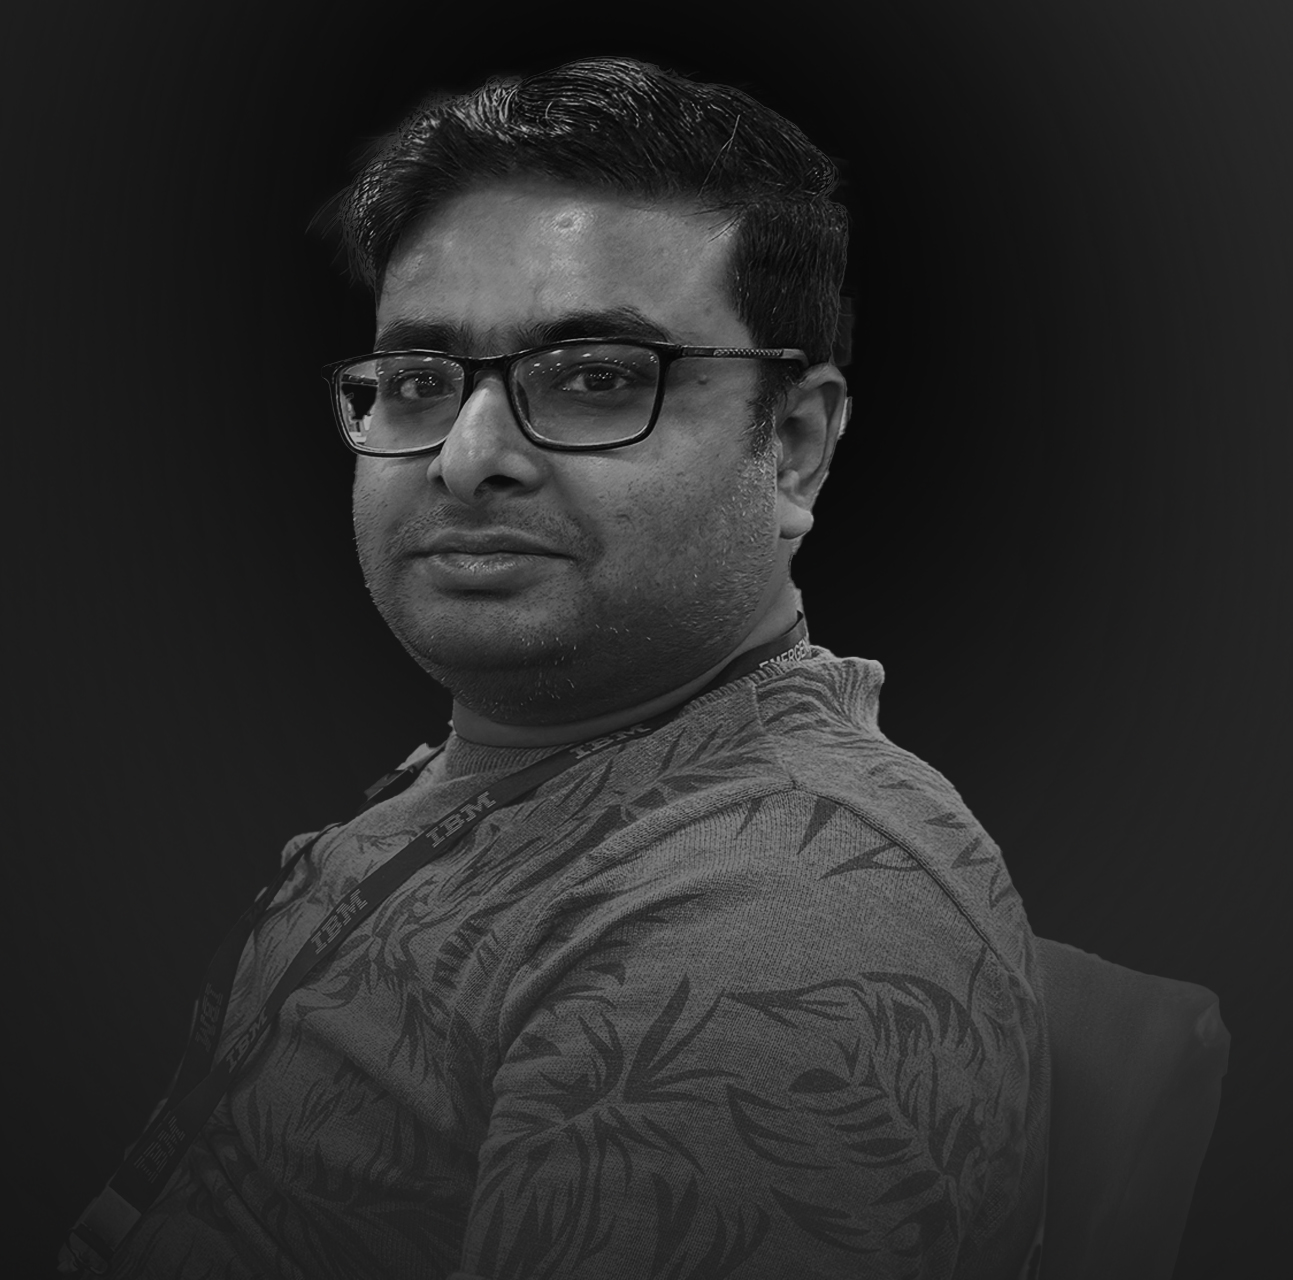
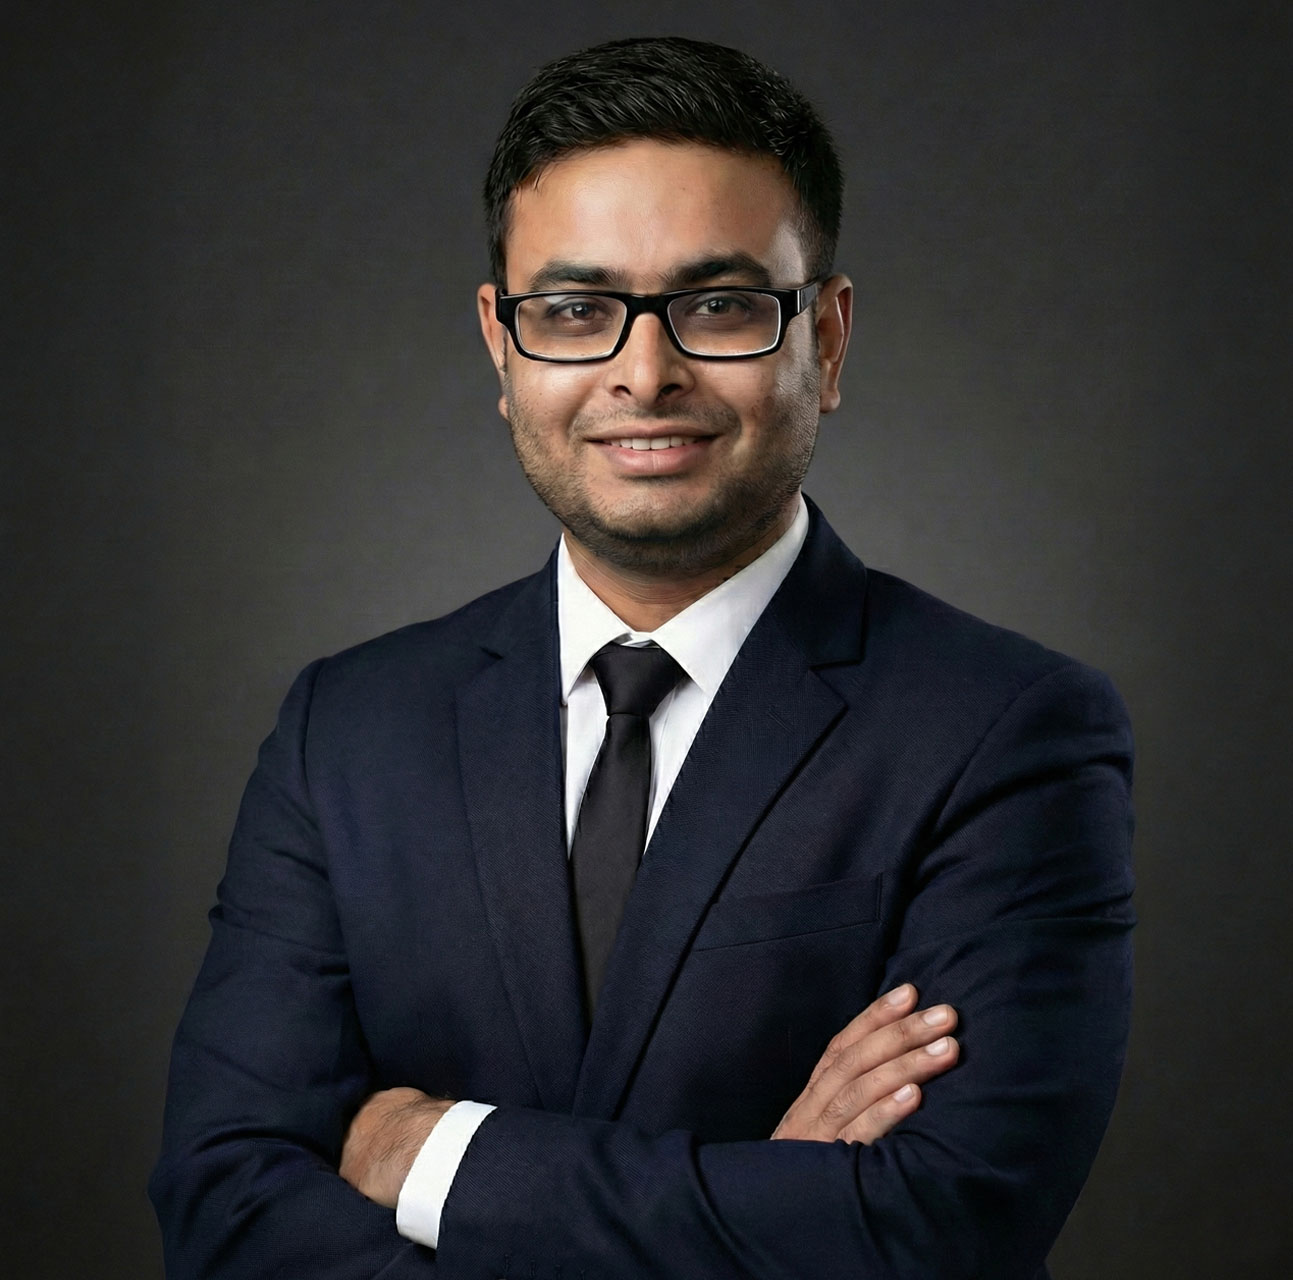
update profile pictures and comment out background style

diff --git a/css/style.css b/css/style.css
@@ -1342,7 +1342,7 @@ header .navbar-brand .social-icon a {
   left: 0;
   right: 0;
   content: "";
-  background: rgba(0, 0, 0, 0.5);
+  /* background: rgba(0, 0, 0, 0.5); */
   z-index: 1;
 }
 
